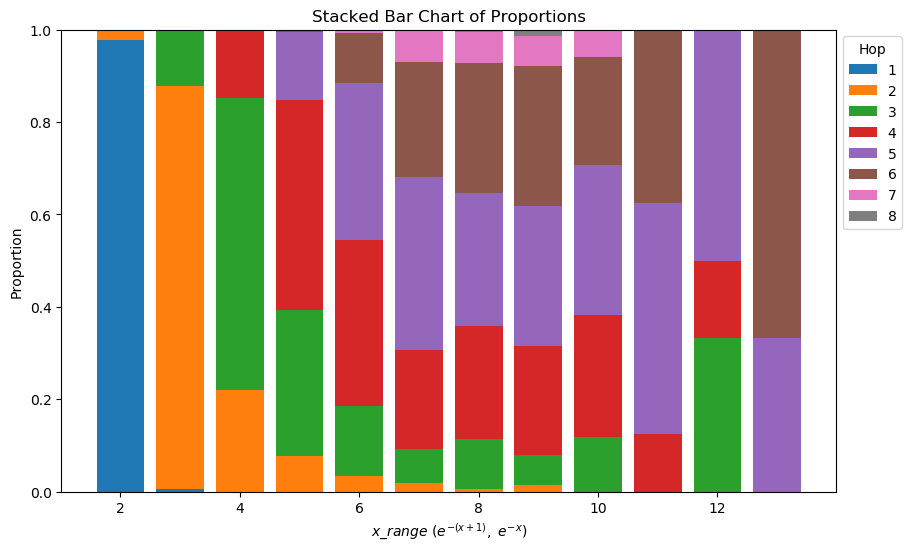
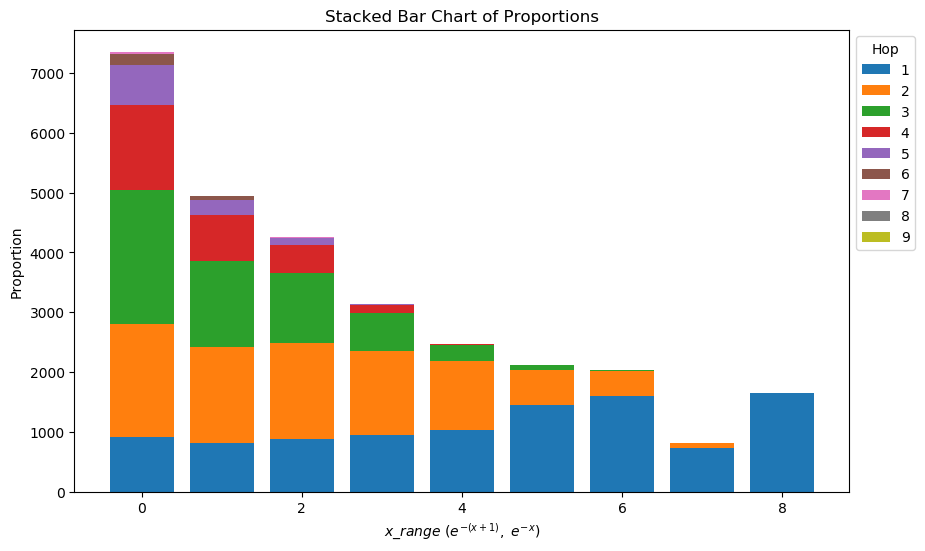
modify param

diff --git a/statistic.py b/statistic.py
@@ -57,18 +57,18 @@ def run_convergence_trials(N, a, epsilon, alpha=1):
 
     # 将 xi 和 hops 数据转换为 DataFrame
     df = pd.DataFrame({'xi': xi_data, 'hops': hops_data})
-    ax1.scatter(df['hops'], df['xi'], color='red', marker='+', alpha=0.5)
+    ax1.scatter(df['hops'], df['xi'], color='red', marker='+', alpha=0.1)
 
     ax2 = ax1.twinx()
     ax2.set_ylabel('Path Length CDF')
     total_hops.multiply_all(1/N)
 
-    cdf = np.cumsum(total_hops.array)
-    # cdf = total_hops.array
+    # cdf = np.cumsum(total_hops.array)
+    cdf = total_hops.array
 
     ax2.plot(range(1, max_hops + 1), cdf, color='black', marker='x', alpha=0.5)
     for i, value in enumerate(cdf):
-        ax2.text(i + 1, cdf[i], f'{value * 100:.1f}%', fontsize=8, ha='center', va='bottom')
+        ax2.text(i + 1, cdf[i], f'{value * 100:.2f}%', fontsize=8, ha='center', va='bottom')
 
     mean_times = np.mean(times_list)
     variance_times = np.var(times_list)
@@ -77,13 +77,12 @@ def run_convergence_trials(N, a, epsilon, alpha=1):
 
 
     # 计算 -log(xi)
-    df['log_xi'] = -np.log(df['xi'])
-
+    # df['log_xi'] = -np.log(df['xi'])
     # 定义组间隔 d
-    d = 1
+    d = 0.01
 
     # 分组
-    df['group'] = (df['log_xi'] // d).astype(int)
+    df['group'] = (df['xi'] // d).astype(int)
 
     # 统计每组内各 hop 的频次
     freq_table = df.groupby(['group', 'hops']).size().unstack(fill_value=0)
@@ -117,13 +116,27 @@ def run_convergence_trials(N, a, epsilon, alpha=1):
     # 绘制第二张堆积柱形图
     plt.figure(figsize=(10, 6))
 
-    # 确保 bottom_values 是 numpy 数组
-    bottom_values = np.zeros(len(proportion_table.index))
+    # 绘制比例图/频次图
+    # plot_freq = False
+    plot_freq = True
+    
 
-    # 循环绘制每一列
-    for column in proportion_table.columns:
-        plt.bar(proportion_table.index, proportion_table[column].values, bottom=bottom_values, label=str(column))
-        bottom_values += proportion_table[column].values  # 更新底部位置
+    if plot_freq:
+        # 确保 bottom_values 是 numpy 数组
+        bottom_values = np.zeros(len(freq_table.index))
+
+        # 循环绘制每一列
+        for column in freq_table.columns:
+            plt.bar(freq_table.index, freq_table[column].values, bottom=bottom_values, label=str(column))
+            bottom_values += freq_table[column].values  # 更新底部位置
+    else:
+        # 确保 bottom_values 是 numpy 数组
+        bottom_values = np.zeros(len(proportion_table.index))
+
+        # 循环绘制每一列
+        for column in proportion_table.columns:
+            plt.bar(proportion_table.index, proportion_table[column].values, bottom=bottom_values, label=str(column))
+            bottom_values += proportion_table[column].values  # 更新底部位置
 
     # 添加标签和标题
     plt.xlabel(r'$x\_range\ (e^{-(x+1)},\ e^{-x})$')
@@ -140,10 +153,10 @@ def run_convergence_trials(N, a, epsilon, alpha=1):
     return mean_times, variance_times
 
 # 示例调用
-N = 1000  # 运行次数
-a = 0.5
-epsilon = 0.001
-alpha = 0.1
+N = 10000  # 运行次数
+a = 0.8
+epsilon = 0.01
+alpha = 0.22
 
 mean_result, variance_result = run_convergence_trials(N, a, epsilon, alpha)
 print(f'均值: {mean_result}, 方差: {variance_result}')

diff --git a/convergence.py b/convergence.py
@@ -1,4 +1,15 @@
+'''
+Author: TheLooping 100526118+TheLooping@users.noreply.github.com
+Date: 2024-11-01 00:56:32
+LastEditors: TheLooping 100526118+TheLooping@users.noreply.github.com
+LastEditTime: 2024-11-04 17:44:21
+FilePath: \hopsControl\convergence.py
+Description: 这是默认设置,请设置`customMade`, 打开koroFileHeader查看配置 进行设置: https://github.com/OBKoro1/koro1FileHeader/wiki/%E9%85%8D%E7%BD%AE
+'''
 import numpy as np
+import matplotlib.pyplot as plt
+from g_x import g  # 从模块中导入函数
+
     # 定义 cos_1 函数
 def cos_1(x):
     if x == 0:
@@ -6,29 +17,51 @@ def cos_1(x):
     else:
         return np.cos(1/x)
 
+
     # 定义 f_converge 函数
 def f_converge(x, a):
+    if x < 0.02:
+        return cos_1(x) * a * x * 0.1
     return cos_1(x) * a * x
 
 def converge_times(a, epsilon, alpha=1):
-
     # 设置初始点
-    initial_point = 0.7
+    initial_point = 0.09
     xi = initial_point
     times = 0
     xi_values = []  # 用于存储每次迭代的 xi 值
 
     while abs(xi) > epsilon:
-        times += 1        
-        yi = f_converge(xi, a)
-        r = np.random.rand()
-        xi = abs(yi + xi * alpha * r)  # 下一次迭代
-        xi_values.append(xi)
-
+        r = 2 * np.random.rand() - 1
+        xi = abs(xi + xi * alpha * r)  # 下一次迭代
+        yi = abs(f_converge(xi, a))
+        # if xi > 0.015:
+        #     continue
+        xi = yi
+        xi_values.append(yi)
+        times += 1  
+        if abs(r) > g(xi, epsilon):
+            break  
 
     return times, xi_values
 
-# 示例调用
-# result, xi_values = converge_times(a=0.1, epsilon=0.001, alpha=0.5)
-# print(result)
-# print(xi_values)
+# 绘制图像
+def plot_convergence(a):
+    plt.close('all')  # 关闭所有图形
+    # 生成 x 值
+    x_values = np.linspace(-0.7, 0.7, 14001)  # 在 -1 到 1 之间生成 1000 个点
+    y_values = np.array([f_converge(x, a) for x in x_values])  # 计算对应的 y 值
+
+    # 绘制图像
+    plt.figure(figsize=(10, 6))
+    plt.plot(x_values, y_values, label=f'f_converge(x, {a})', color='blue')
+    plt.axhline(0, color='black', linewidth=0.5, linestyle='--')
+    plt.axvline(0, color='black', linewidth=0.5, linestyle='--')
+    plt.title('Graph of f_converge')
+    plt.xlabel('x')
+    plt.ylabel('f_converge(x, a)')
+    plt.ylim(-1.5, 1.5)  # 根据需要调整 y 轴范围
+    plt.legend()
+    plt.grid()
+    plt.savefig('f_converge.png')
+

diff --git a/g_x.py b/g_x.py
@@ -1,0 +1,40 @@
+'''
+Author: TheLooping 100526118+TheLooping@users.noreply.github.com
+Date: 2024-11-01 10:06:09
+LastEditors: TheLooping 100526118+TheLooping@users.noreply.github.com
+LastEditTime: 2024-11-04 17:21:50
+FilePath: \hopsControl\g_x.py
+Description: 这是默认设置,请设置`customMade`, 打开koroFileHeader查看配置 进行设置: https://github.com/OBKoro1/koro1FileHeader/wiki/%E9%85%8D%E7%BD%AE
+'''
+import numpy as np
+import matplotlib.pyplot as plt
+
+# 定义sigmoid函数
+def sigmoid(x):
+    return 1 / (1 + np.exp(-x))
+
+# 定义g(x)函数
+def g(x, epsilon):
+    return np.where(np.abs(x) <= epsilon, 
+                    0, 
+                    (2 * sigmoid(x*100) - 1))
+
+# 设置x的范围
+x = np.linspace(-0.1, 0.1, 101)
+
+# 设置epsilon的值
+epsilon = 0.01  # 可以根据需要调整
+
+# 计算g(x)的值
+y = g(x, epsilon)
+
+# 绘制图像
+plt.plot(x, y, label=f'g(x) with epsilon={epsilon}')
+plt.title(f'Graph of g(x) with epsilon={epsilon}')
+plt.xlabel('x')
+plt.ylabel('g(x)')
+plt.axhline(0, color='black',linewidth=0.5)  # x轴
+plt.axvline(0, color='black',linewidth=0.5)  # y轴
+plt.grid(True)
+plt.legend()
+plt.savefig('g_x.png')

diff --git a/demo/demo.py b/demo/demo.py
@@ -1,0 +1,20 @@
+import numpy as np
+import matplotlib.pyplot as plt
+
+# 设置 x 的范围
+x = np.linspace(0.4, 0.9, 101)  # 从一个小正数到 0.9 的范围
+
+# 计算 y
+y = np.log(0.0001) / np.log(x)  # 使用换底公式
+
+# 绘制图像
+plt.figure(figsize=(8, 6))
+plt.plot(x, y, label='y = log(0.0001) / log(x)', color='blue')
+plt.title('Graph of y = log(0.0001) / log(x)')
+plt.xlabel('x')
+plt.ylabel('y')
+plt.grid()
+plt.legend()
+
+# 保存图像
+plt.savefig('log_graph.png', dpi=300)  # 保存为 300 dpi 的 PNG 文件
